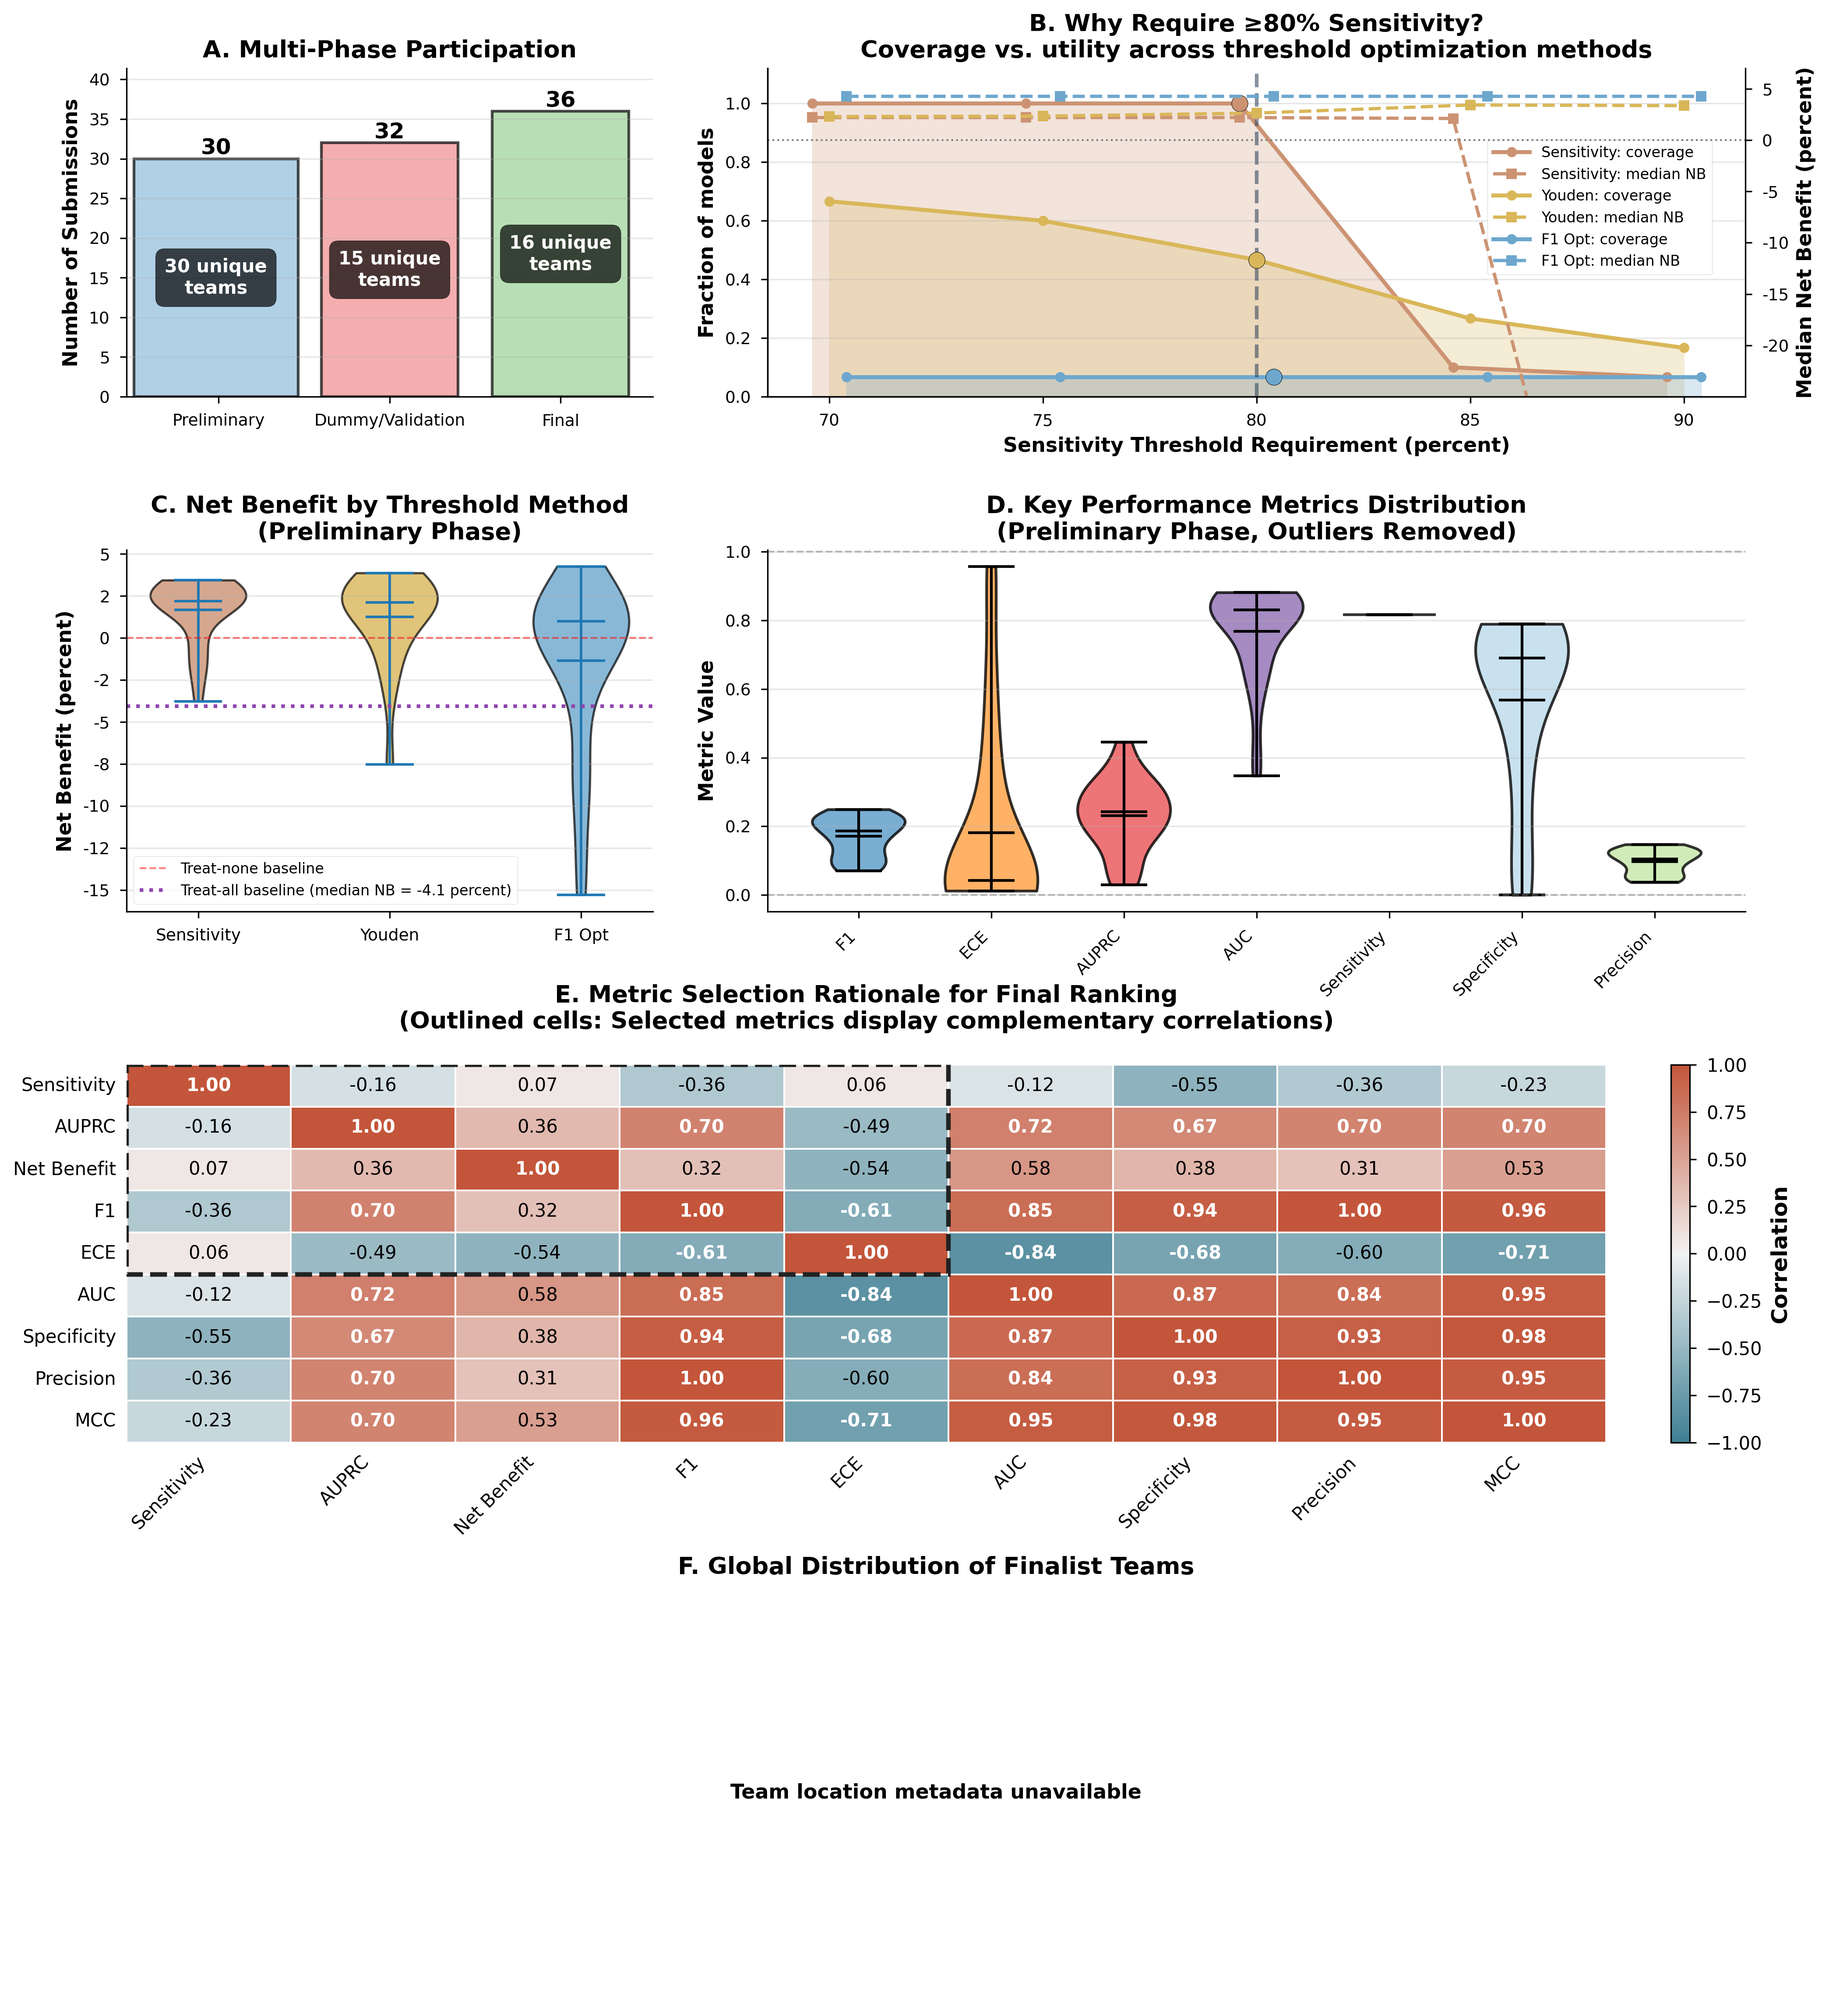
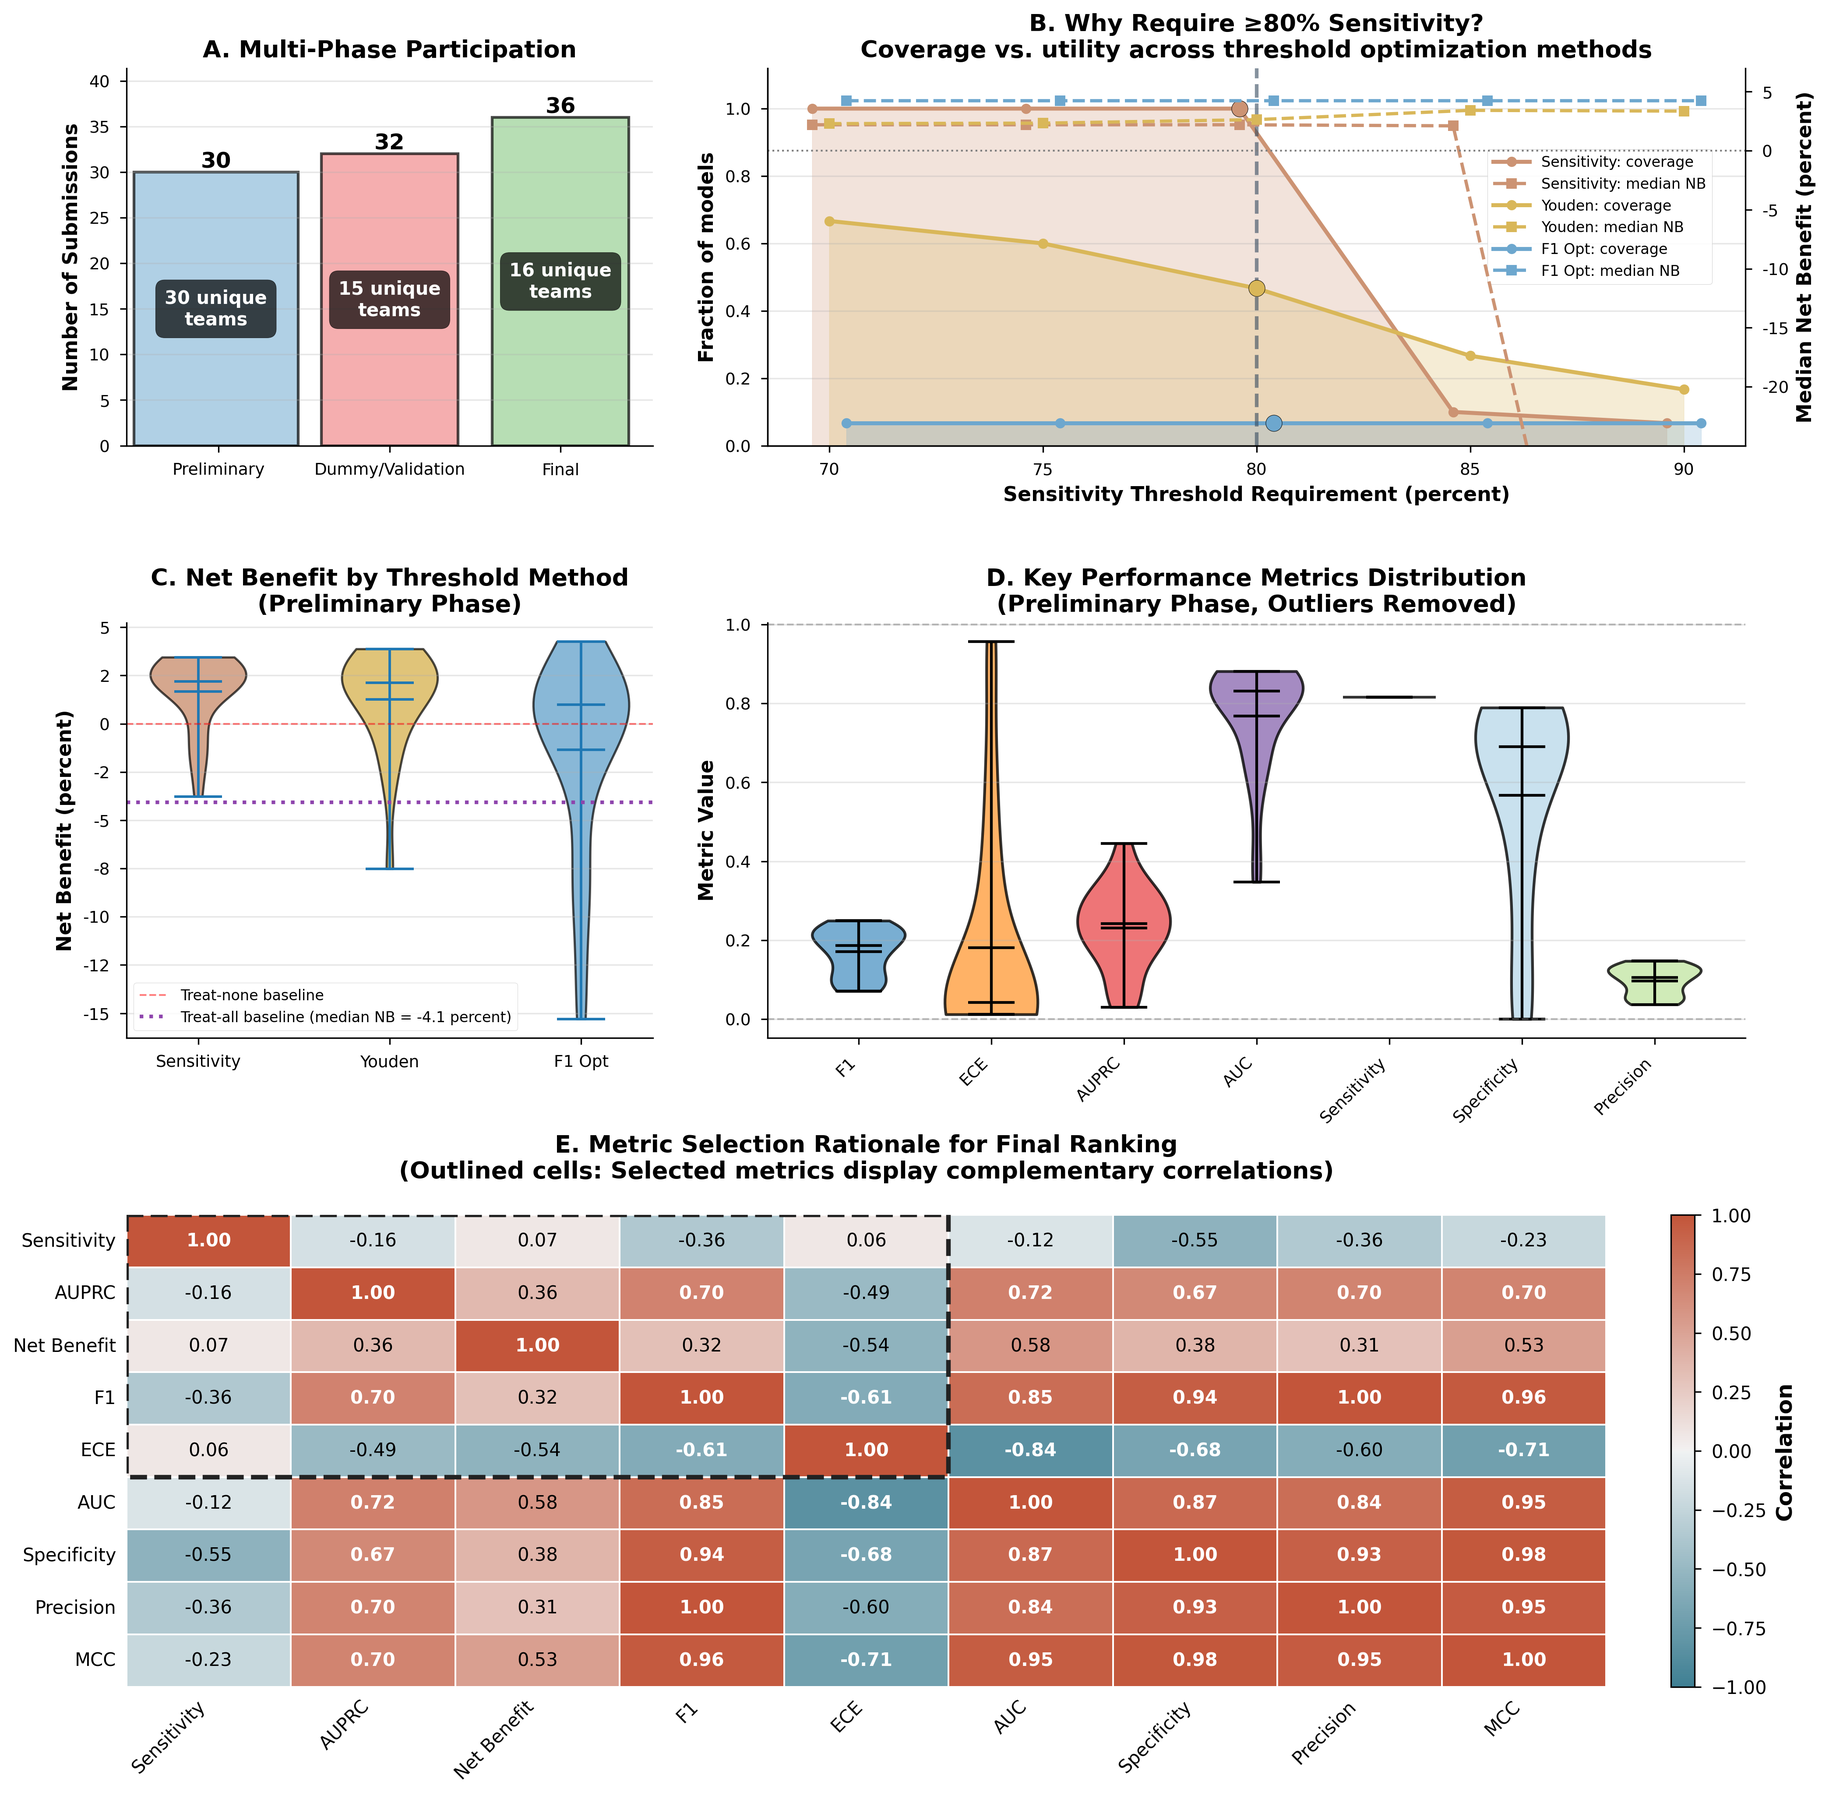
Remove world map panel from Figure 1

diff --git a/scripts/python/create_results_figure1.py b/scripts/python/create_results_figure1.py
@@ -1,18 +1,14 @@
 #!/usr/bin/env python3
 """Generate Figure 1: Study design overview and decision analytics."""
 
-import re
 import pandas as pd
 import numpy as np
 import matplotlib.pyplot as plt
 import seaborn as sns
-import geopandas as gpd
-import pycountry
 from matplotlib.gridspec import GridSpec
 from matplotlib.ticker import FuncFormatter
 from matplotlib.lines import Line2D
-from matplotlib.cm import ScalarMappable
-from matplotlib.colors import Normalize, to_rgb, to_hex
+from matplotlib.colors import to_rgb, to_hex
 from pathlib import Path
 
 from plot_palette import BASE_PALETTE, get_metric_color, lighten_color
@@ -74,14 +70,6 @@ def extract_team_name(full_name: str) -> str:
     return team_name
 
 
-def normalize_team_key(name: str) -> str:
-    """Return a lowercase alphanumeric key for consistent team matching."""
-    if not isinstance(name, str):
-        return ""
-    ascii_name = name.encode("ascii", errors="ignore").decode("ascii").strip()
-    return "".join(ch.lower() for ch in ascii_name if ch.isalnum())
-
-
 def remove_outliers_nb(data: np.ndarray) -> np.ndarray:
     """Remove extreme net benefit outliers via median ± 3*IQR."""
     data = np.asarray(data)
@@ -126,7 +114,6 @@ def generate_figure1() -> Path:
     prelim_f1["Team_clean"] = prelim_f1["Team"].apply(extract_team_name)
     prelim_youden["Team_clean"] = prelim_youden["Team"].apply(extract_team_name)
     final_scores["Team_clean"] = final_scores["Team_clean"].str.strip()
-    final_scores["Team_key"] = final_scores["Team_clean"].apply(normalize_team_key)
 
     if {"TP", "FP", "FN", "TN"}.issubset(prelim_sens.columns):
         prelim_sens["MCC"] = compute_mcc(
@@ -136,15 +123,15 @@ def generate_figure1() -> Path:
             prelim_sens["TN"],
         )
 
-    fig1 = plt.figure(figsize=(17, 19))
+    fig1 = plt.figure(figsize=(17, 16))
     gs1 = GridSpec(
-        4,
+        3,
         4,
         figure=fig1,
         hspace=0.42,
         wspace=0.36,
         width_ratios=[1.9, 0.9, 0.9, 0.9],
-        height_ratios=[1.0, 1.1, 1.15, 1.2],
+        height_ratios=[1.0, 1.1, 1.25],
     )
     fig1.subplots_adjust(right=0.85)
 
@@ -520,161 +507,6 @@ def generate_figure1() -> Path:
         fontsize=13,
         pad=20,
     )
-
-    # Panel F — Global distribution of finalist teams
-    ax1f = fig1.add_subplot(gs1[3, 0:4])
-    try:
-        leaderboard_info = pd.read_json(PROCESSED_DIR / "leaderboard_with_info.json")
-    except FileNotFoundError:
-        ax1f.axis("off")
-        ax1f.text(
-            0.5,
-            0.5,
-            "Team location metadata unavailable",
-            ha="center",
-            va="center",
-            fontsize=11,
-            fontweight="bold",
-        )
-    else:
-        leaderboard_info["team_key"] = leaderboard_info["team"].apply(normalize_team_key)
-        final_team_keys = final_scores["Team_key"].dropna().unique()
-        team_info = leaderboard_info[leaderboard_info["team_key"].isin(final_team_keys)].copy()
-        team_info = team_info.sort_values("team_key").drop_duplicates("team_key", keep="first")
-
-        country_aliases = {
-            "USA": "United States",
-            "US": "United States",
-            "U.S.A": "United States",
-            "U.S.": "United States",
-            "UK": "United Kingdom",
-            "U.K.": "United Kingdom",
-            "South Korea": "Korea, Republic of",
-            "Republic of Korea": "Korea, Republic of",
-            "Korea": "Korea, Republic of",
-            "Cameroon": "Cameroon",
-            "nan": None,
-        }
-        split_pattern = re.compile(r",|/|&|\band\b", flags=re.IGNORECASE)
-
-        def countries_to_iso(country_field: object) -> list[str]:
-            if not isinstance(country_field, str):
-                return []
-            tokens = [token.strip() for token in split_pattern.split(country_field) if token.strip()]
-            iso_codes: list[str] = []
-            for token in tokens:
-                alias = country_aliases.get(token, token)
-                if alias is None:
-                    continue
-                try:
-                    match = pycountry.countries.lookup(alias)
-                except LookupError:
-                    try:
-                        match = pycountry.countries.lookup(alias.title())
-                    except LookupError:
-                        continue
-                code = match.alpha_3
-                if code not in iso_codes:
-                    iso_codes.append(code)
-            return iso_codes
-
-        country_team_map: dict[str, list[str]] = {}
-        for _, row in team_info.iterrows():
-            display_name = str(row.get("Team_clean", "")).strip()
-            if not display_name:
-                continue
-            for iso_code in countries_to_iso(row.get("Country")):
-                teams = country_team_map.setdefault(iso_code, [])
-                if display_name not in teams:
-                    teams.append(display_name)
-
-        country_counts = {iso: len(names) for iso, names in country_team_map.items()}
-
-        if not country_counts:
-            ax1f.axis("off")
-            ax1f.text(
-                0.5,
-                0.5,
-                "Team location metadata unavailable",
-                ha="center",
-                va="center",
-                fontsize=11,
-                fontweight="bold",
-            )
-        else:
-            world = gpd.read_file(gpd.datasets.get_path("naturalearth_lowres"))
-            world = world[world["name"] != "Antarctica"].copy()
-            world["team_count"] = world["iso_a3"].map(country_counts).fillna(0)
-
-            base_color = "#f0f0f0"
-            edge_color = "#d4d4d4"
-            highlight_cmap = plt.get_cmap("viridis")
-
-            world.plot(ax=ax1f, color=base_color, edgecolor=edge_color, linewidth=0.4)
-            highlighted = world[world["team_count"] > 0]
-
-            if highlighted.empty:
-                ax1f.axis("off")
-                ax1f.text(
-                    0.5,
-                    0.5,
-                    "Team location metadata unavailable",
-                    ha="center",
-                    va="center",
-                    fontsize=11,
-                    fontweight="bold",
-                )
-            else:
-                highlighted.plot(
-                    ax=ax1f,
-                    column="team_count",
-                    cmap=highlight_cmap,
-                    linewidth=0.6,
-                    edgecolor="#555555",
-                    legend=False,
-                )
-
-                max_count = highlighted["team_count"].max()
-                for _, row in highlighted.iterrows():
-                    iso = row.get("iso_a3")
-                    names = country_team_map.get(iso, [])
-                    if not names:
-                        continue
-                    label_text = "\n".join(names)
-                    point = row.geometry.representative_point()
-                    text_color = "#1b1b1b"
-                    bbox_kwargs = {
-                        "facecolor": "white",
-                        "alpha": 0.75,
-                        "edgecolor": "#333333",
-                        "linewidth": 0.4,
-                        "boxstyle": "round,pad=0.28",
-                    }
-                    ax1f.text(
-                        point.x,
-                        point.y,
-                        label_text,
-                        ha="center",
-                        va="center",
-                        fontsize=9,
-                        fontweight="bold",
-                        color=text_color,
-                        bbox=bbox_kwargs,
-                    )
-
-                ax1f.set_xlim(-180, 180)
-                ax1f.set_ylim(-60, 90)
-                ax1f.set_axis_off()
-
-                norm = Normalize(vmin=1, vmax=max_count)
-                scalar_map = ScalarMappable(norm=norm, cmap=highlight_cmap)
-                scalar_map.set_array([])
-                cbar = fig1.colorbar(scalar_map, ax=ax1f, orientation="horizontal", fraction=0.05, pad=0.08)
-                cbar.set_label("Number of Finalist Teams", fontweight="bold", fontsize=12)
-                cbar.set_ticks(np.arange(1, max_count + 1))
-                cbar.ax.tick_params(labelsize=10)
-
-    ax1f.set_title("F. Global Distribution of Finalist Teams", fontweight="bold", fontsize=13, pad=12)
 
     output_path = FIGURES_DIR / "results_figure1_overview.png"
     plt.savefig(output_path, bbox_inches="tight", dpi=300)
